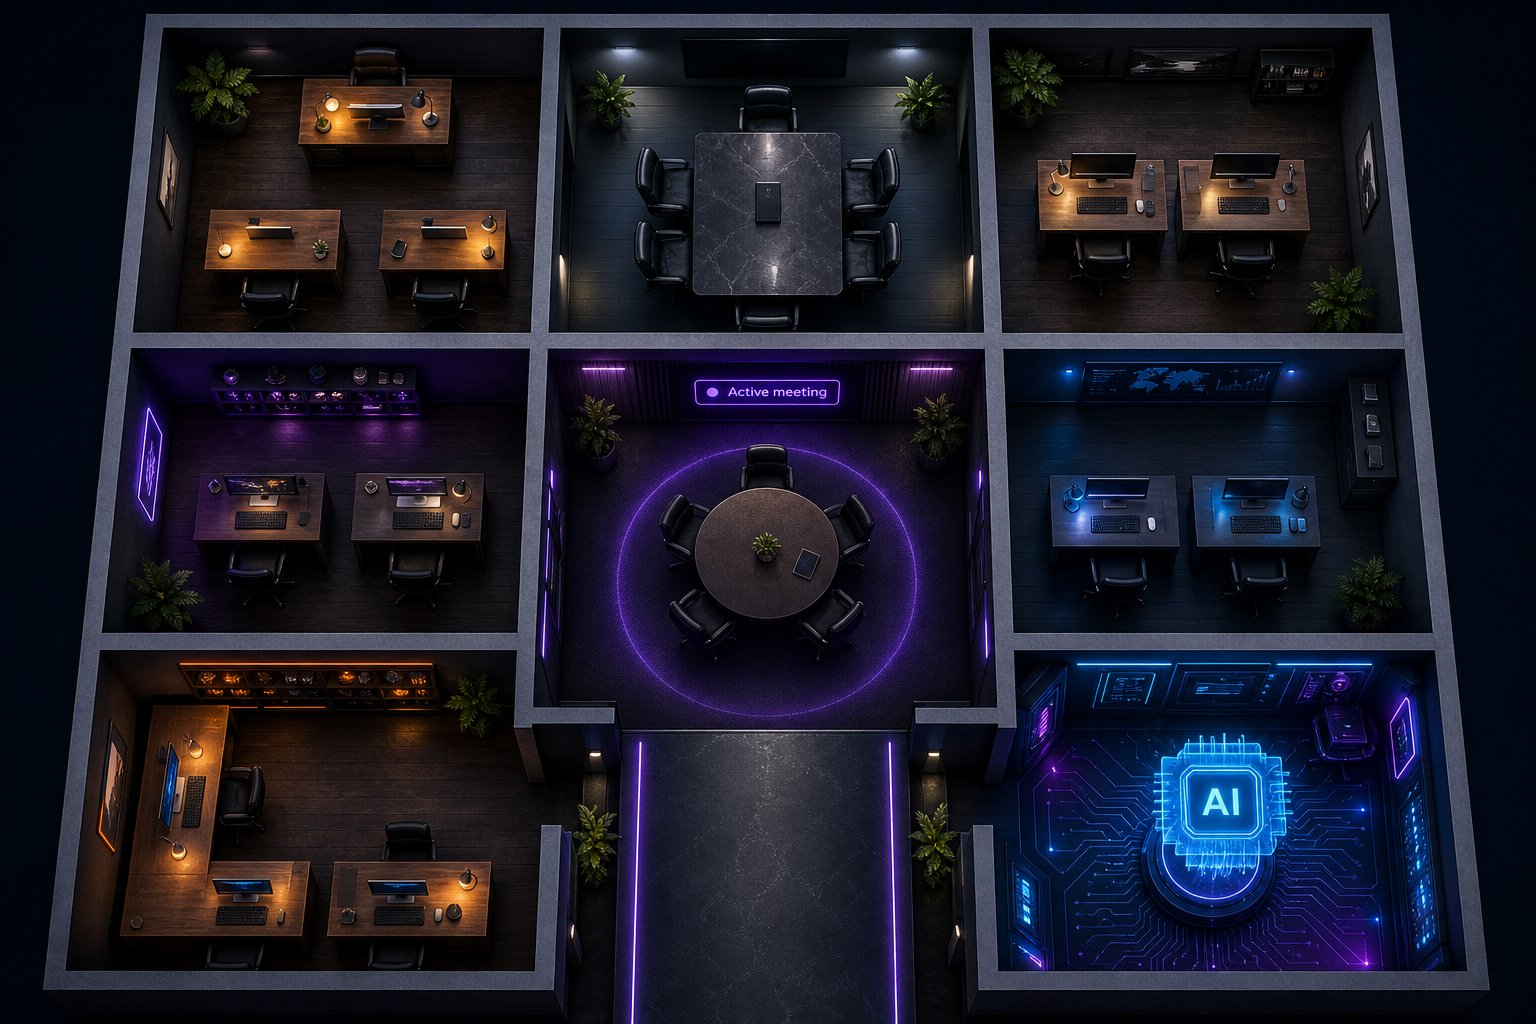
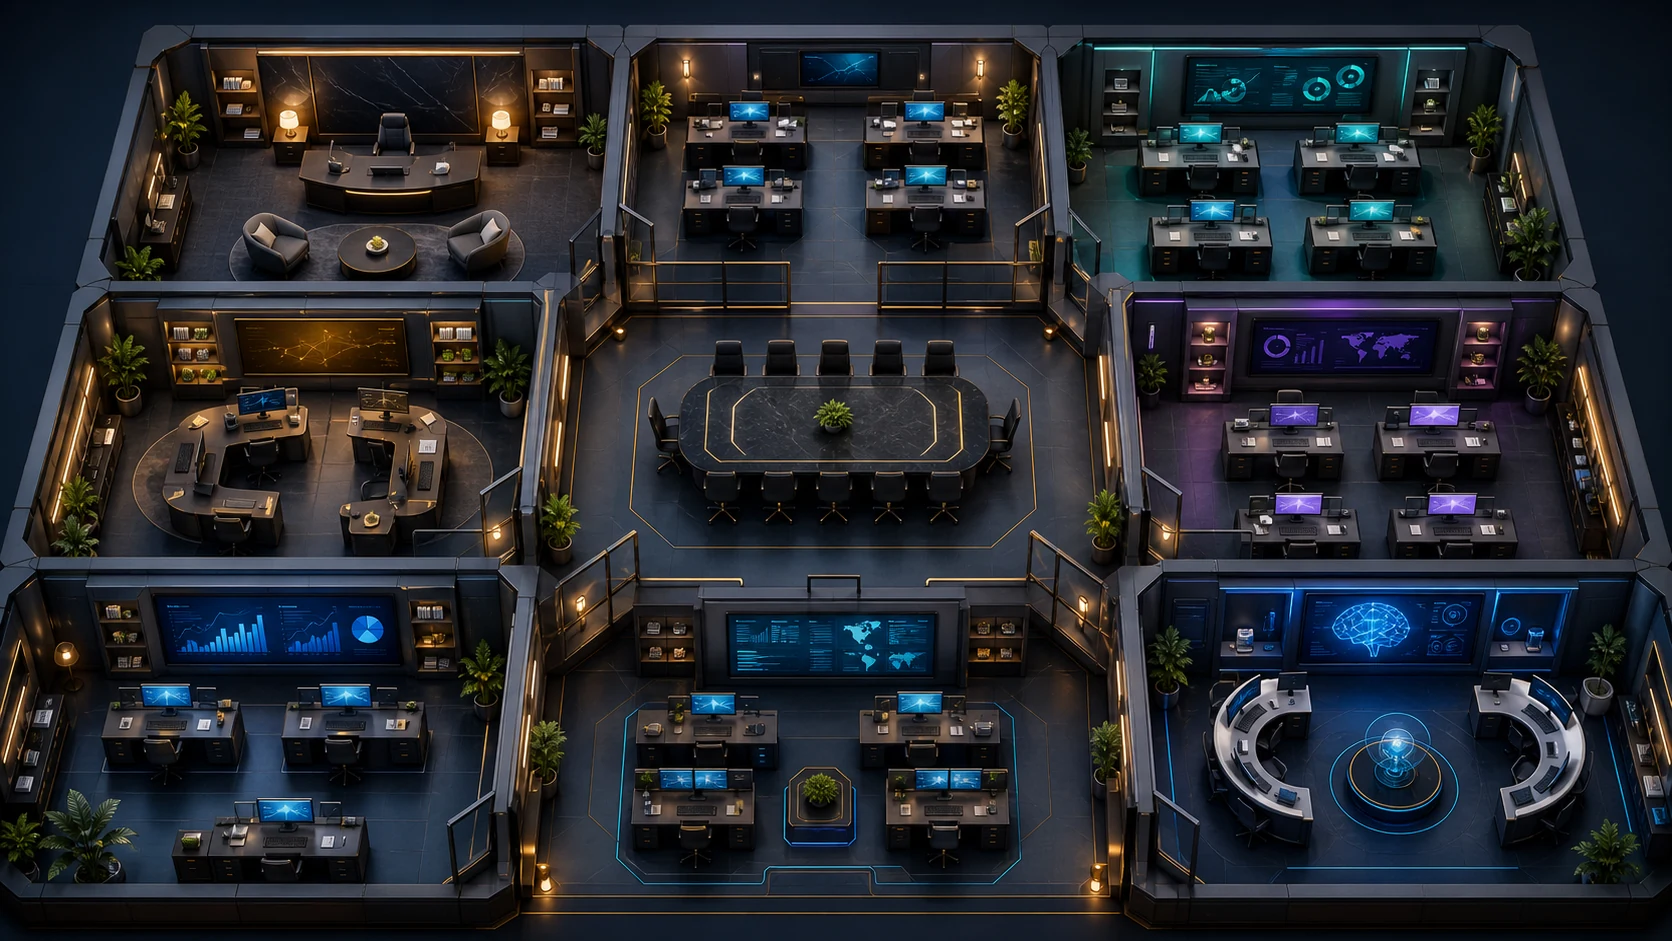
EXECUTIVE-OFFICE-ASSET-FINAL-5: Final office asset and hotspots

diff --git a/src/components/org/MobileExecutiveOfficeScene.tsx b/src/components/org/MobileExecutiveOfficeScene.tsx
@@ -14,6 +14,7 @@ import {
 import type { SceneRoom } from "./VirtualOfficeReferenceScene";
 
 const IMAGE_SRC = "/assets/virtual-office/office-map-reference.webp";
+const IMAGE_ASPECT_RATIO = "1672 / 941";
 
 // Loose superset of SceneRoom — OfficeRoom satisfies this.
 export interface MobileSelectedRoom extends SceneRoom {
@@ -26,14 +27,14 @@ export interface MobileSelectedRoom extends SceneRoom {
 
 interface ChipPos { top: string; left: string; }
 const CHIP_POSITIONS: ChipPos[] = [
-  { top: "17%", left: "16%" }, // 0 Sales
-  { top: "17%", left: "50%" }, // 1 Exec
-  { top: "17%", left: "84%" }, // 2 Support
-  { top: "47%", left: "16%" }, // 3 Marketing
-  { top: "50%", left: "50%" }, // 4 Meeting (center)
-  { top: "47%", left: "84%" }, // 5 Finance
-  { top: "82%", left: "16%" }, // 6 Execution
-  { top: "82%", left: "84%" }, // 7 AI
+  { top: "79%", left: "19%" }, // 0 Sales
+  { top: "18%", left: "20%" }, // 1 Exec
+  { top: "18%", left: "50%" }, // 2 Support
+  { top: "48%", left: "19%" }, // 3 Marketing
+  { top: "48%", left: "50%" }, // 4 Meeting (center)
+  { top: "48%", left: "82%" }, // 5 Finance
+  { top: "80%", left: "51%" }, // 6 Execution
+  { top: "79%", left: "82%" }, // 7 AI
 ];
 
 // ─── Helpers ──────────────────────────────────────────────────────────────────
@@ -309,9 +310,8 @@ export default function MobileExecutiveOfficeScene({
         <div style={{
           position: "relative",
           width: "100%",
-          aspectRatio: "3 / 2",
-          minHeight: 260,
-          maxHeight: 320,
+          aspectRatio: IMAGE_ASPECT_RATIO,
+          maxHeight: 340,
           margin: "0 auto",
         }}>
           {!imgFailed ? (
@@ -320,7 +320,7 @@ export default function MobileExecutiveOfficeScene({
               alt="Office floor plan"
               fill
               sizes="100vw"
-              style={{ objectFit: "cover", objectPosition: "center" }}
+              style={{ objectFit: "contain", objectPosition: "center" }}
               onError={() => setImgFailed(true)}
               priority
             />

diff --git a/src/components/org/VirtualOfficeReferenceScene.tsx b/src/components/org/VirtualOfficeReferenceScene.tsx
@@ -38,6 +38,7 @@ export interface VirtualOfficeReferenceSceneProps {
 
 // ─── Asset path ───────────────────────────────────────────────────────────────
 const IMAGE_SRC = "/assets/virtual-office/office-map-reference.webp";
+const IMAGE_ASPECT_RATIO = "1672 / 941";
 
 // ─── Constants ────────────────────────────────────────────────────────────────
 
@@ -56,14 +57,14 @@ interface SlotPos {
   isMeeting?: boolean;
 }
 const SLOT_POSITIONS: SlotPos[] = [
-  { top: "1%",    left:  "1%",   width: "31%", height: "30%" },
-  { top: "1%",    left:  "34%",  width: "32%", height: "30%" },
-  { top: "1%",    right: "1%",   width: "31%", height: "30%" },
-  { top: "34%",   left:  "1%",   width: "31%", height: "29%" },
-  { top: "33%",   left:  "34%",  width: "32%", height: "62%", isMeeting: true },
-  { top: "34%",   right: "1%",   width: "31%", height: "29%" },
-  { bottom: "1%", left:  "1%",   width: "31%", height: "29%" },
-  { bottom: "1%", right: "1%",   width: "31%", height: "29%" },
+  { top: "63%", left: "4%",  width: "29%", height: "32%" },
+  { top: "3%",  left: "5%",  width: "31%", height: "27%" },
+  { top: "3%",  left: "39%", width: "22%", height: "27%" },
+  { top: "34%", left: "4%",  width: "29%", height: "27%" },
+  { top: "35%", left: "39%", width: "22%", height: "24%", isMeeting: true },
+  { top: "34%", left: "69%", width: "27%", height: "27%" },
+  { top: "65%", left: "38%", width: "26%", height: "29%" },
+  { top: "64%", left: "69%", width: "27%", height: "31%" },
 ];
 
 // ─── Helpers ──────────────────────────────────────────────────────────────────
@@ -420,8 +421,8 @@ export default function VirtualOfficeReferenceScene({
             position: "relative",
             borderRadius: 14,
             overflow: "hidden",
-            // Match the actual asset aspect ratio (1536×1024 = 3:2). No crop.
-            aspectRatio: "3 / 2",
+            // Match the final asset aspect ratio (1672x941). No crop.
+            aspectRatio: IMAGE_ASPECT_RATIO,
             // Cap so it doesn't dominate the page on very wide screens.
             maxHeight: 700,
             margin: "0 auto",